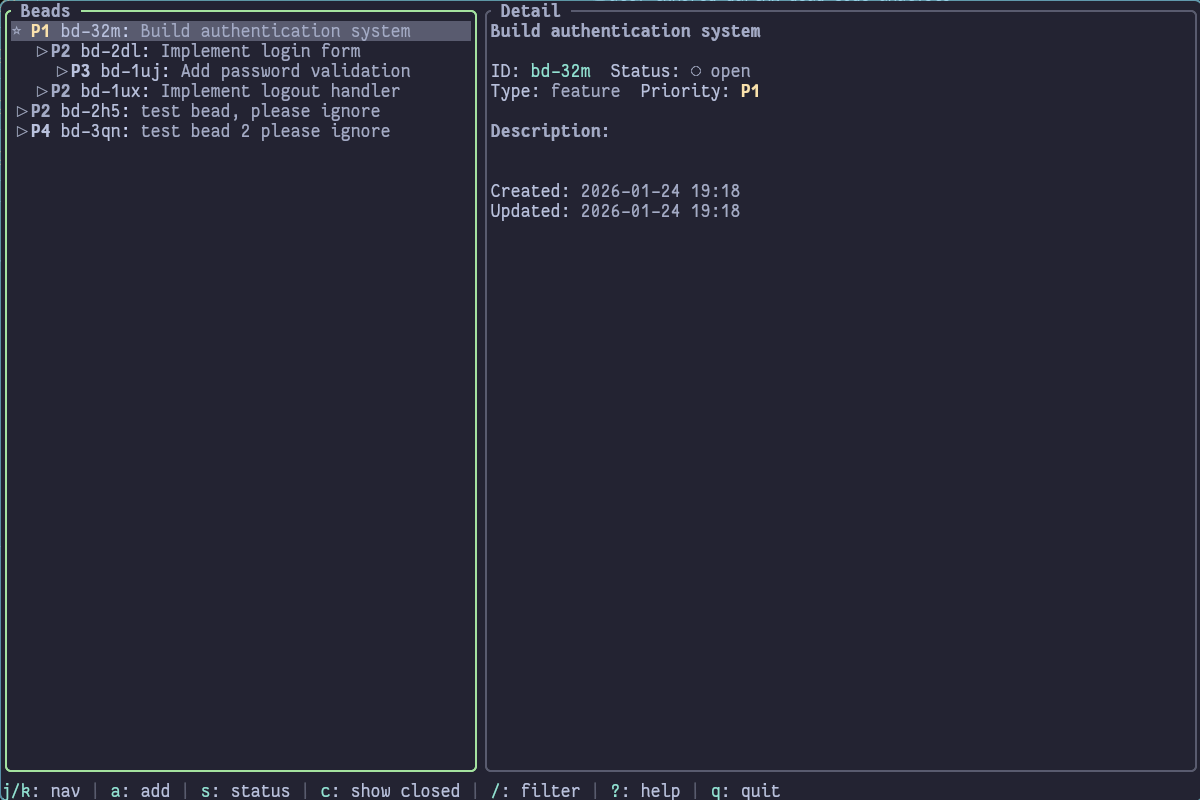
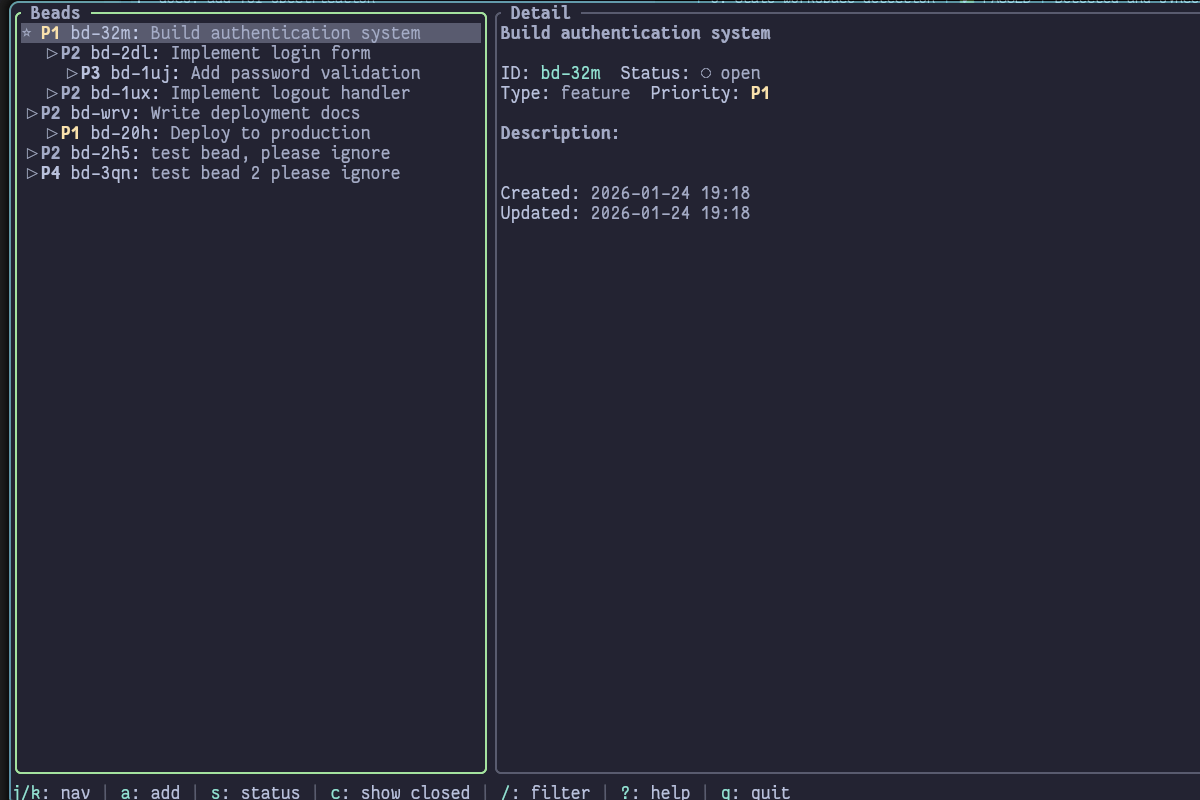
fix: include blocked-by relationships in tree hierarchy
Previously only parent-child relationships were shown in the tree.
Now beads that are blocked by other beads also appear as children
of their blockers.

Changed region(s): [[0.0, 0.0, 1.0, 1.0]]

diff --git a/src/data/bead.rs b/src/data/bead.rs
@@ -302,11 +302,21 @@ pub fn build_tree_order<'a>(
     let mut has_parent: HashSet<&str> = HashSet::new();
 
     for bead in &non_closed {
+        // Parent-child relationships
         for parent_id in &bead.parent_ids {
-            // Only count as child if parent is also in non_closed set
             if non_closed_ids.contains(parent_id.as_str()) {
                 children_map
                     .entry(parent_id.as_str())
+                    .or_default()
+                    .push(bead);
+                has_parent.insert(bead.id.as_str());
+            }
+        }
+        // Blocked-by relationships: if A is blocked by B, show A under B
+        for blocker_id in &bead.blocked_by {
+            if non_closed_ids.contains(blocker_id.as_str()) {
+                children_map
+                    .entry(blocker_id.as_str())
                     .or_default()
                     .push(bead);
                 has_parent.insert(bead.id.as_str());
